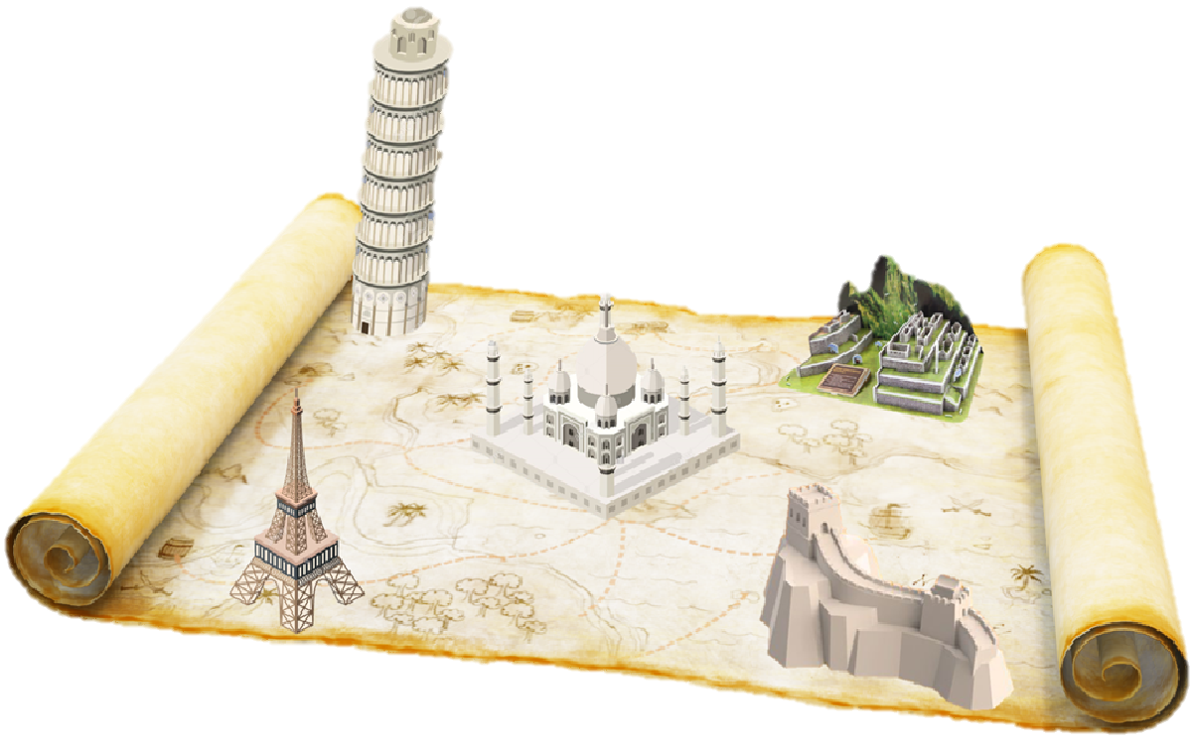
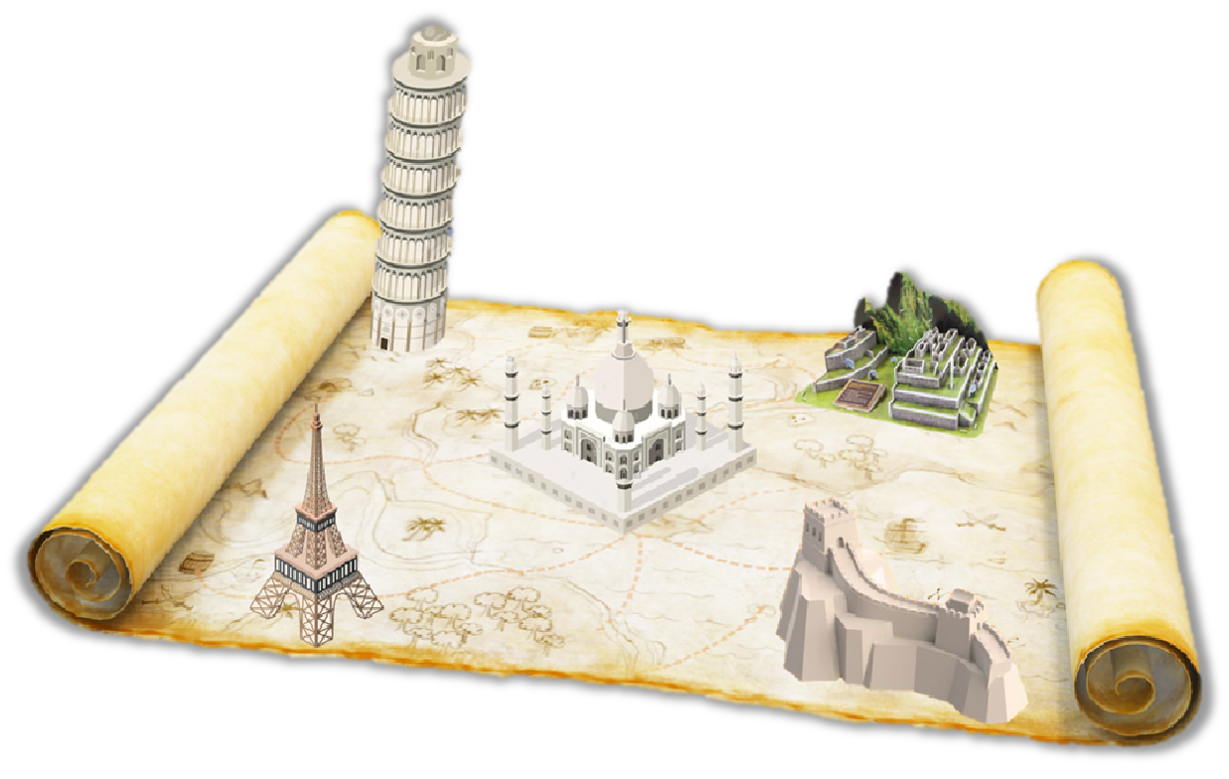
Add files via upload

diff --git a/index.html b/index.html
@@ -2,14 +2,30 @@
 <html>
 
 <head>
+    <link rel="stylesheet" href="styles.css" />
 
 </head>
 
-<body bgcolor="pink">
+<body bgcolor="fcfcf6">
+
+
+    <header class="main-header">
+        <nav class="nav main-nav">
+            <ul>
+                <li><a href="index.html">HOME</a></li>
+                <li><a href="eiffelTower.html">EIFFEL TOWER</a></li>
+                <li><a href="greatWallOfChaina.html">GREAT WALL OF CHAINA</a></li>
+                <li><a href="machuPikchu.html">MACHU PIKCHU</a></li>
+                <li><a href="tajMahal.html">TAJ MAHAL</a></li>
+                <li><a href="towerOfPisa.html">PISA</a></li>
+            </ul>
+        </nav>
+        <h1 class="band-name band-name-large">Five most beautiful places I want to visit</h1>
+    </header>
+
     <div style="vertical-align:middle;text-align: center;">
-        <h1>Five most beautiful places I want to visit!</h1>
         <div style="vertical-align:middle;text-align: center;">
-            <img src="5.png" width="1000" height="500" usemap="#map1" /></div>
+            <img src="3.png" width="1000" height="500" usemap="#map1" /></div>
         <p class="pointer"></p>
         <map name="map1">
         <area shape= "rect" coords="280,0,400,230" href="towerOfPisa.html"  #p title="Leaning Tower of Pisa-Italy"/>

diff --git a/styles.css b/styles.css
@@ -1,0 +1,65 @@
+@import url('https://fonts.googleapis.com/css?family=Raleway:300,400');
+@font-face {
+    font-family: "Booter - Zero Zero";
+    src: url("Fonts/Booter - Zero Zero.woff") format("woff"), url("Fonts/Booter - Zero Zero.woff2") format("woff2");
+    font-weight: normal;
+    font-style: normal;
+}
+
+* {
+    box-sizing: border-box;
+    font-family: Raleway;
+    font-size: medium;
+}
+
+html,
+body {
+    margin: 0;
+    padding: 0;
+}
+
+.nav ul {
+    margin: 0;
+}
+
+.nav li {
+    display: inline;
+}
+
+.nav a {
+    display: inline-block;
+    padding: .5em;
+    color: rgb(136, 74, 74);
+    text-decoration: none;
+}
+
+.main-nav {
+    text-align: center;
+    font-size: .9em;
+    font-weight: lighter;
+    border-bottom: 1px solid rgba(255, 255, 255, .3)
+}
+
+.main-nav li {
+    padding: 0 3%;
+}
+
+.main-header {
+    background-color: #473d3d38;
+    background-image: url("g7.jpeg");
+    background-blend-mode: multiply;
+    background-size: cover;
+    padding-bottom: 30px;
+}
+
+.band-name {
+    text-align: center;
+    margin: 0;
+    font-family: "Charlemagne Std Bold";
+    font-weight: bold;
+    color: white;
+}
+
+.band-name-large {
+    font-size: 4em;
+}

diff --git a/eiffelTower.html b/eiffelTower.html
@@ -2,10 +2,28 @@
 <html>
 
 <head>
+    <link rel="stylesheet" href="styles.css" />
 
 </head>
 
-<body bgcolor="pink">
+<body bgcolor="fcfcf6">
+
+
+    <header class="main-header">
+        <nav class="nav main-nav">
+            <ul>
+                <li><a href="index.html">HOME</a></li>
+                <li><a href="eiffelTower.html">EIFFEL TOWER</a></li>
+                <li><a href="greatWallOfChaina.html">GREAT WALL OF CHAINA</a></li>
+                <li><a href="machuPikchu.html">MACHU PIKCHU</a></li>
+                <li><a href="tajMahal.html">TAJ MAHAL</a></li>
+                <li><a href="towerOfPisa.html">PISA</a></li>
+            </ul>
+        </nav>
+        <h1 class="band-name band-name-large">Five most beautiful places I want to visit</h1>
+    </header>
+    </head>
+
     <img src="eiffel.png">
 </body>
 

diff --git a/tajMahal.html b/tajMahal.html
@@ -2,10 +2,29 @@
 <html>
 
 <head>
+    <link rel="stylesheet" href="styles.css" />
 
 </head>
 
-<body bgcolor="pink">
+<body bgcolor="fcfcf6">
+
+
+    <header class="main-header">
+        <nav class="nav main-nav">
+            <ul>
+                <li><a href="index.html">HOME</a></li>
+                <li><a href="eiffelTower.html">EIFFEL TOWER</a></li>
+                <li><a href="greatWallOfChaina.html">GREAT WALL OF CHAINA</a></li>
+                <li><a href="machuPikchu.html">MACHU PIKCHU</a></li>
+                <li><a href="tajMahal.html">TAJ MAHAL</a></li>
+                <li><a href="towerOfPisa.html">PISA</a></li>
+            </ul>
+        </nav>
+        <h1 class="band-name band-name-large">Five most beautiful places I want to visit</h1>
+    </header>
+    </head>
+
+
     <img src="taj.png">
 </body>
 

diff --git a/greatWallOfChaina.html b/greatWallOfChaina.html
@@ -2,10 +2,27 @@
 <html>
 
 <head>
+    <link rel="stylesheet" href="styles.css" />
 
 </head>
 
-<body bgcolor="pink">
+<body bgcolor="fcfcf6">
+
+
+    <header class="main-header">
+        <nav class="nav main-nav">
+            <ul>
+                <li><a href="index.html">HOME</a></li>
+                <li><a href="eiffelTower.html">EIFFEL TOWER</a></li>
+                <li><a href="greatWallOfChaina.html">GREAT WALL OF CHAINA</a></li>
+                <li><a href="machuPikchu.html">MACHU PIKCHU</a></li>
+                <li><a href="tajMahal.html">TAJ MAHAL</a></li>
+                <li><a href="towerOfPisa.html">PISA</a></li>
+            </ul>
+        </nav>
+        <h1 class="band-name band-name-large">Five most beautiful places I want to visit</h1>
+    </header>
+    </head>
     <img src="chaina.png">
 </body>
 

diff --git a/towerOfPisa.html b/towerOfPisa.html
@@ -2,10 +2,27 @@
 <html>
 
 <head>
+    <link rel="stylesheet" href="styles.css" />
 
 </head>
 
-<body bgcolor="pink">
+<body bgcolor="fcfcf6">
+
+
+    <header class="main-header">
+        <nav class="nav main-nav">
+            <ul>
+                <li><a href="index.html">HOME</a></li>
+                <li><a href="eiffelTower.html">EIFFEL TOWER</a></li>
+                <li><a href="greatWallOfChaina.html">GREAT WALL OF CHAINA</a></li>
+                <li><a href="machuPikchu.html">MACHU PIKCHU</a></li>
+                <li><a href="tajMahal.html">TAJ MAHAL</a></li>
+                <li><a href="towerOfPisa.html">PISA</a></li>
+            </ul>
+        </nav>
+        <h1 class="band-name band-name-large">Five most beautiful places I want to visit</h1>
+    </header>
+    </head>
     <img src="pisa.png">
 </body>
 

diff --git a/machuPikchu.html b/machuPikchu.html
@@ -2,10 +2,28 @@
 <html>
 
 <head>
+    <link rel="stylesheet" href="styles.css" />
 
 </head>
 
-<body>
+<body bgcolor="fcfcf6">
+
+
+    <header class="main-header">
+        <nav class="nav main-nav">
+            <ul>
+                <li><a href="index.html">HOME</a></li>
+                <li><a href="eiffelTower.html">EIFFEL TOWER</a></li>
+                <li><a href="greatWallOfChaina.html">GREAT WALL OF CHAINA</a></li>
+                <li><a href="machuPikchu.html">MACHU PIKCHU</a></li>
+                <li><a href="tajMahal.html">TAJ MAHAL</a></li>
+                <li><a href="towerOfPisa.html">PISA</a></li>
+            </ul>
+        </nav>
+        <h1 class="band-name band-name-large">Five most beautiful places I want to visit</h1>
+    </header>
+    </head>
+
     <img src="peru.jpg">
 </body>
 
